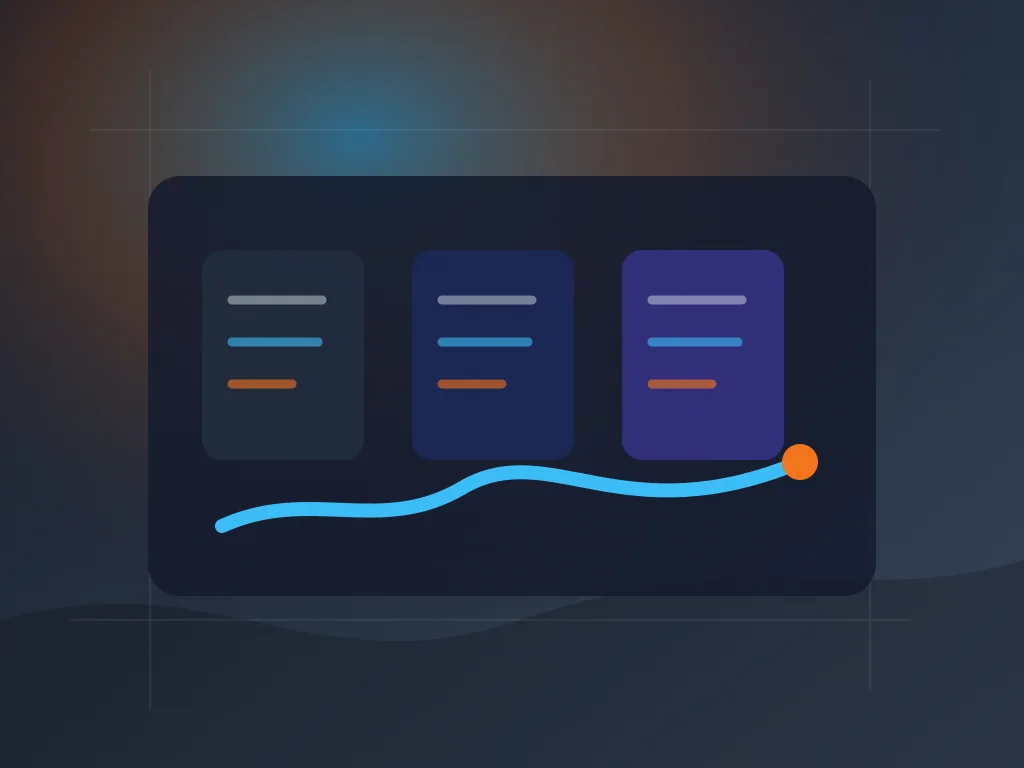
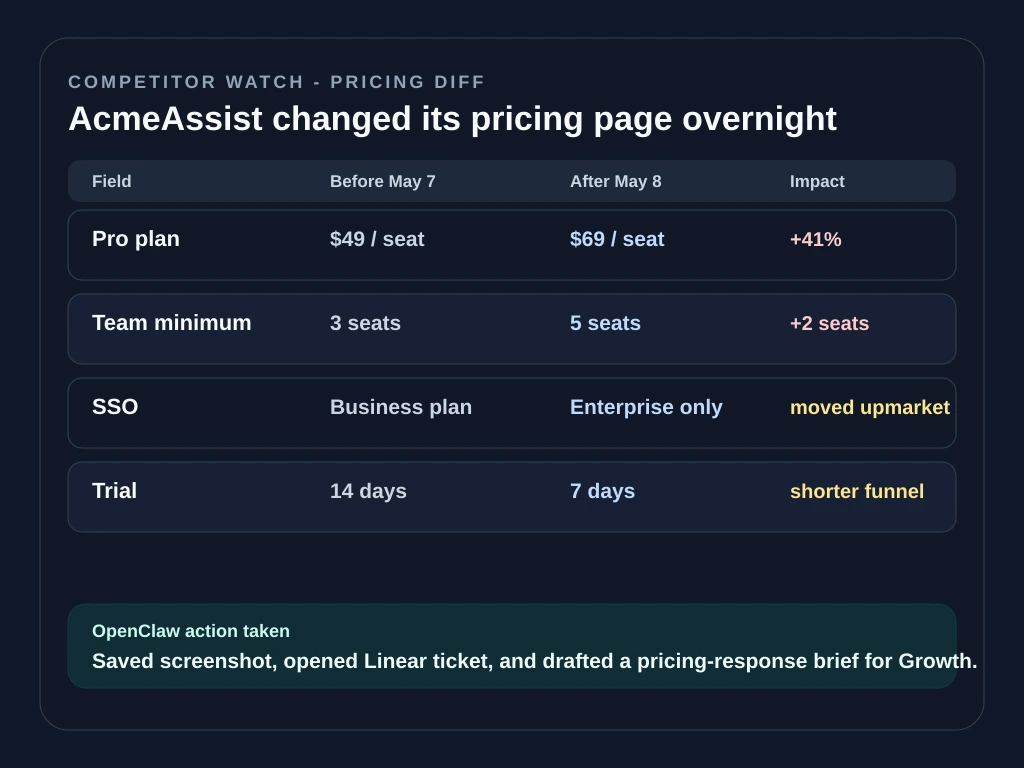
Redo OpenClaw demo feed cards

diff --git a/src/components/feed/content-card.tsx b/src/components/feed/content-card.tsx
@@ -110,13 +110,16 @@ function labelForRelationship(relationship: string): string {
 
 function previewLineText(child: ChildPreview): string {
   const title = child.title?.trim();
-  if (title) return title;
   let text = child.text;
   if (child.relationship === 'reply') {
     text = stripLeadingReplyMentions(text);
   }
-  if (text.length <= 80) return text;
-  return `${text.slice(0, 80).trimEnd()}...`;
+  const previewText = text.length <= 80 ? text : `${text.slice(0, 80).trimEnd()}...`;
+  if (child.type === 'article' && title && previewText && previewText !== title) {
+    return `${title}: ${previewText}`;
+  }
+  if (title) return title;
+  return previewText;
 }
 
 function getChildPreviewSearchText(child: ChildPreview): string {
@@ -188,6 +191,7 @@ const TEXT_CHAR_LIMIT_CHILD = 140;
 const TEXT_LINE_LIMIT_CHILD = 3;
 const MAIN_TEXT_TRUNCATION = { charLimit: TEXT_CHAR_LIMIT_MAIN, lineLimit: TEXT_LINE_LIMIT_MAIN } as const;
 const CHILD_TEXT_TRUNCATION = { charLimit: TEXT_CHAR_LIMIT_CHILD, lineLimit: TEXT_LINE_LIMIT_CHILD } as const;
+const CHILD_PREVIEW_LIMIT = 6;
 const EXPAND_LABEL = 'More';
 const COLLAPSE_LABEL = 'Less';
 const CHILD_ANALYSIS_EXPAND_LABEL = 'Read full article';
@@ -386,6 +390,27 @@ function readMetadataString(metadata: FeedItem['metadata'], key: string): string
     : null;
   const articleValue = typeof article?.[key] === 'string' ? article[key].trim() : '';
   return articleValue || null;
+}
+
+function readMetadataBoolean(metadata: FeedItem['metadata'], key: string): boolean {
+  if (!metadata || typeof metadata !== 'object') {
+    return false;
+  }
+
+  const record = metadata as Record<string, unknown>;
+  const directValue = record[key];
+  if (directValue === true) {
+    return true;
+  }
+  if (typeof directValue === 'string' && directValue.trim().toLowerCase() === 'true') {
+    return true;
+  }
+
+  const article = record.article && typeof record.article === 'object' && !Array.isArray(record.article)
+    ? record.article as Record<string, unknown>
+    : null;
+  const articleValue = article?.[key];
+  return articleValue === true || (typeof articleValue === 'string' && articleValue.trim().toLowerCase() === 'true');
 }
 
 function readPositiveInteger(value: unknown): number | null {
@@ -691,6 +716,18 @@ export function resolveArticleHeaderDisplayName(
   }
 
   return sourceProfile.displayName;
+}
+
+export function resolveArticleHeaderSubline(
+  item: Pick<FeedItem, 'metadata' | 'source'>,
+): string {
+  const metadataHandle = readMetadataString(item.metadata, 'authorHandle')
+    ?? readMetadataString(item.metadata, 'sourceHandle');
+  if (metadataHandle) {
+    return metadataHandle;
+  }
+
+  return item.source?.trim() || 'Article';
 }
 
 function trimUrlPunctuation(value: string): { url: string; trailing: string } {
@@ -2891,7 +2928,7 @@ export function ArticleCard({
     ? { needsTruncation: false, displayText: searchSnippet.text }
     : getTruncationState(body, expanded, MAIN_TEXT_TRUNCATION);
   const bodySearchQuery = usesSearchSnippet || !useSearchSnippet ? searchQuery : null;
-  const shouldRenderMarkdownBody = item.type === 'analysis' && !usesSearchSnippet;
+  const shouldRenderMarkdownBody = (item.type === 'analysis' || readMetadataBoolean(item.metadata, 'renderMarkdown')) && !usesSearchSnippet;
   const isProminent = isProminentFeedItem(item);
   const linkUrl = youtubeVideo?.canonicalUrl ?? resolvePrimaryLinkUrl(item) ?? item.url;
   const linkLabel = youtubeVideo?.liveStatus === 'live'
@@ -3128,7 +3165,7 @@ export function ArticleCard({
             <span className="shrink-0 text-zinc-500">·</span>
             <p className="shrink-0 text-sm text-zinc-500">{formatFeedTimestamp(item)}</p>
           </div>
-          <p className="text-sm text-zinc-500">{item.source || 'Article'}</p>
+          <p className="text-sm text-zinc-500">{resolveArticleHeaderSubline(item)}</p>
         </div>
       </div>
 
@@ -3965,7 +4002,7 @@ export function ContentCard({
     return true;
   });
   const searchAwareChildPreviews = sortChildPreviewsForSearch(filteredChildPreviews, searchQuery);
-  const visibleChildPreviews = searchAwareChildPreviews.slice(0, 3);
+  const visibleChildPreviews = searchAwareChildPreviews.slice(0, CHILD_PREVIEW_LIMIT);
   const renderedChildPreviews = visibleChildPreviews;
   const suppressedChildPreviewCount = childPreviews.length - filteredChildPreviews.length;
   const resolvedChildPreviewTotal = Math.max(

diff --git a/src/components/feed/content-card.test.ts b/src/components/feed/content-card.test.ts
@@ -11,6 +11,7 @@ import {
   resolveAnalysisByline,
   resolveAnalysisDisplayTitle,
   resolveArticleHeaderDisplayName,
+  resolveArticleHeaderSubline,
   getTweetLinkPreviews,
   resolveHackerNewsPoints,
   resolveOgDescriptionSubtitle,
@@ -236,6 +237,17 @@ describe('resolveArticleHeaderDisplayName', () => {
       resolveArticleHeaderDisplayName(item, { displayName: 'Substack' }),
       'Jack Clark',
     );
+  });
+});
+
+describe('resolveArticleHeaderSubline', () => {
+  test('prefers metadata authorHandle over the duplicated source label', () => {
+    const item = createArticleItem({
+      source: 'OpenClaw',
+      metadata: { authorHandle: 'via Email skill' },
+    });
+
+    assert.equal(resolveArticleHeaderSubline(item), 'via Email skill');
   });
 });
 
@@ -647,6 +659,34 @@ describe('resolveHackerNewsPoints', () => {
 });
 
 describe('ArticleCard', () => {
+  test('renders article body markdown when metadata opts in', () => {
+    const item = createArticleItem({
+      text: '## Decision\n\n**Move** embeddings to pgvector.',
+      excerpt: null,
+      metadata: { renderMarkdown: true },
+    });
+
+    const markup = renderToStaticMarkup(createElement(ArticleCard, {
+      item,
+      agentName: 'Agent',
+      isLiked: false,
+      isDisliked: false,
+      votePending: false,
+      onThumbsUp: () => {},
+      onThumbsDown: () => {},
+      expanded: false,
+      onToggleExpand: () => {},
+      showReasonInput: null,
+      onReasonSubmit: () => {},
+      onDismissReasonInput: () => {},
+      detail: false,
+    }));
+
+    assert.match(markup, /<h2/);
+    assert.match(markup, /<strong>Move<\/strong>/);
+    assert.doesNotMatch(markup, /## Decision/);
+  });
+
   test('renders analysis list-card body markdown instead of raw markdown characters', () => {
     const item = createAnalysisItem({
       title: 'Email digest',

diff --git a/src/lib/db/feed.ts b/src/lib/db/feed.ts
@@ -346,6 +346,7 @@ interface QuotedTweetMatch {
 }
 
 const EMBEDDED_QUOTED_TWEET_REASON = 'Quoted tweet embedded in parent post';
+const CHILD_PREVIEW_LIMIT = 6;
 
 function toChildPreviewText(text: string, maxLength = 100): string {
   const collapsed = text.replace(/\s+/g, ' ').trim();
@@ -2815,7 +2816,7 @@ export function getChildPreviewsForItems(parentIds: string[]): Record<string, { 
     current.total += 1;
     const relationship = normalizeRelationship(row.relationship) ?? row.relationship ?? '';
 
-    if (current.children.length < 3) {
+    if (current.children.length < CHILD_PREVIEW_LIMIT) {
       current.children.push({
         id: row.id,
         type: row.type,

diff --git a/src/app/api/api.test.ts b/src/app/api/api.test.ts
@@ -683,7 +683,7 @@ describe('API Integration Tests', { concurrency: false, skip: INTEGRATION_SKIP_R
         assert.ok('parentItem' in item, 'Expected parentItem field on feed item');
         assert.ok(Array.isArray(item.children), 'Expected children to be an array');
         assert.strictEqual(typeof item.childrenCount, 'number', 'Expected childrenCount to be a number');
-        assert.ok(item.children.length <= 3, 'Expected children previews to be capped at 3');
+        assert.ok(item.children.length <= 6, 'Expected children previews to be capped at 6');
       }
     });
 